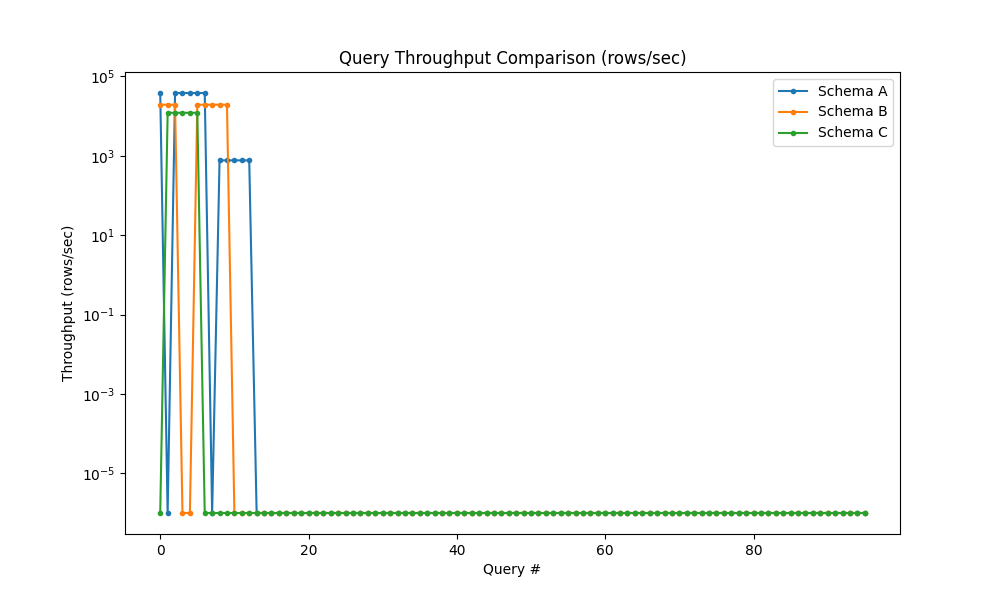
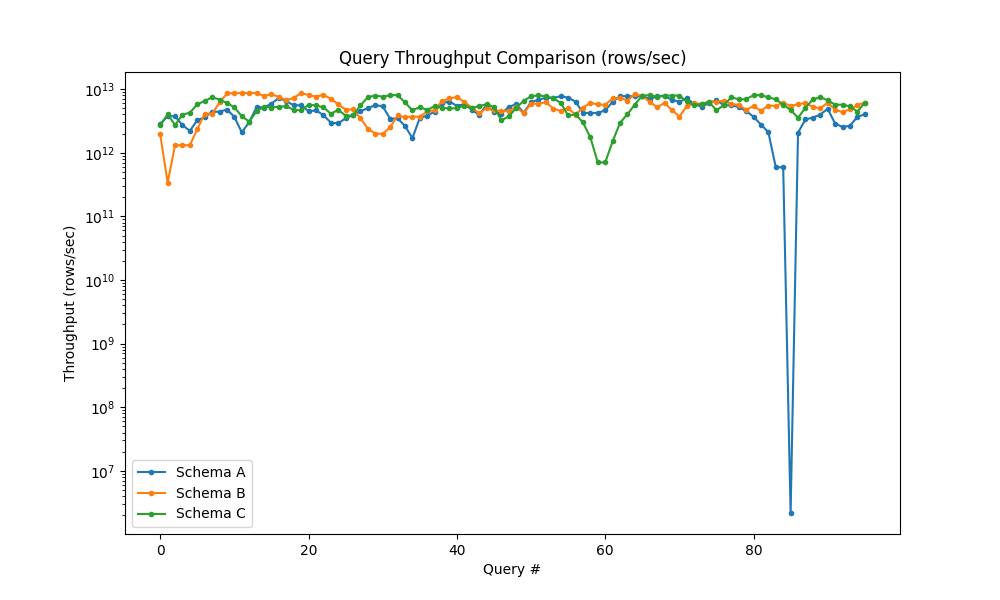
Changed the query type to measure metics

diff --git a/benchmarks/index_vs_noindex.py b/benchmarks/index_vs_noindex.py
@@ -103,14 +103,28 @@ def run_query_tests(n_queries=100):
     throughputs = []
 
     try:
-        now = datetime.now()
+        with conn.cursor() as cursor:
+            #  Get actual data bounds
+            cursor.execute("SELECT MIN(ts), MAX(ts) FROM raw_ticks;")
+            data_start, data_end = cursor.fetchone()
+
+        # Safety check
+        if data_start is None or data_end is None:
+            print("No data found in table!")
+            return [], []
+
+        total_range = (data_end - data_start).total_seconds()
+        epsilon = 1e-9
 
         for i in range(n_queries):
-            # Vary time window size (important!)
-            window = timedelta(seconds=30 + i*2)
+            #  Randomize window size (better than linear growth)
+            window_size = np.random.uniform(10, min(120, total_range))
+            window = timedelta(seconds=window_size)
 
-            t2 = now - timedelta(seconds=i*5)
-            t1 = t2 - window
+            #  Pick random valid end time
+            offset = np.random.uniform(0, total_range - window_size)
+            t1 = data_start + timedelta(seconds=offset)
+            t2 = t1 + window
 
             q = """
                 SELECT COUNT(*) FROM raw_ticks
@@ -121,17 +135,15 @@ def run_query_tests(n_queries=100):
 
             with conn.cursor() as cursor:
                 cursor.execute(q, (t1, t2))
-                result = cursor.fetchone()[0]  # number of rows
+                result = cursor.fetchone()[0]
 
             elapsed = time.time() - start
 
             latencies.append(elapsed)
 
-            # Throughput = rows processed per second
-            if elapsed > 0:
-                throughputs.append(result / elapsed)
-            else:
-                throughputs.append(0)
+            #  Safe throughput calculation
+            throughput = result / max(elapsed, epsilon)
+            throughputs.append(throughput)
 
     finally:
         conn.close()
@@ -303,7 +315,7 @@ def main():
 
             plt.plot(smooth_tp, label=f"{name}", marker='o', markersize=3)
 
-            print(f"{name} Avg Query Throughput: {np.mean(smooth_tp):.2f}")
+            print(f"{name} Avg Query Throughput: {np.mean(smooth_tp):.5f}")
 
         plt.legend()
         plt.title("Query Throughput Comparison (rows/sec)")
